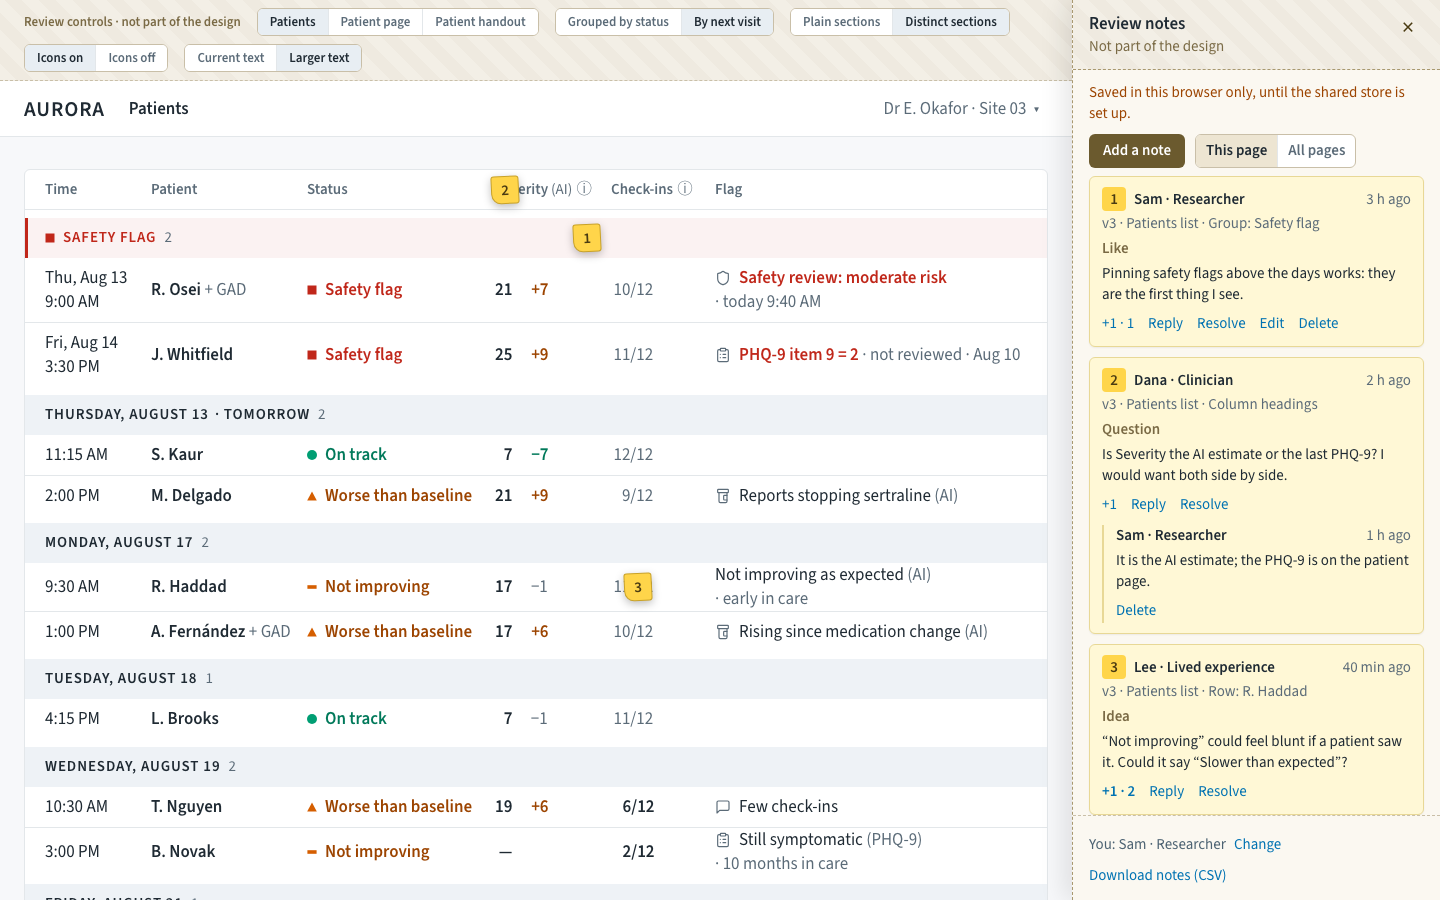
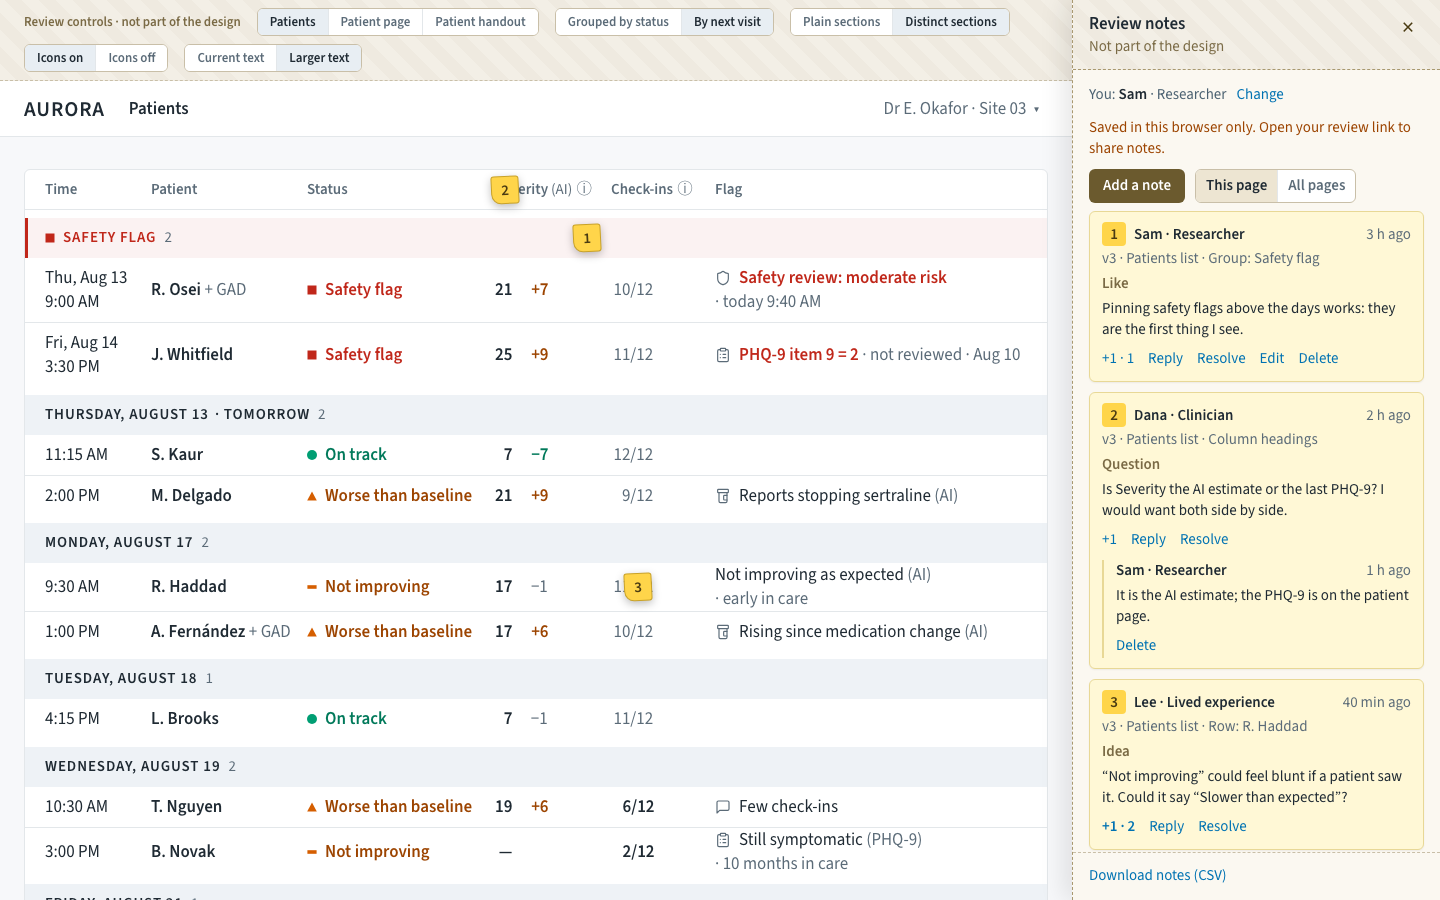
Put the reviewer's name at the top of the notes panel
Until a reviewer has a name, the panel opens with the name and role
fields and Save, so it is the first thing they see. After that it is
one line, "You: name · role", with Change. The footer keeps only the
CSV download.

Changed region(s): [[0.75, 0.0933, 1.0, 0.9644]]

diff --git a/notes.js b/notes.js
@@ -326,6 +326,7 @@
       items.push(card(n, m));
     }
     panelBody.replaceChildren(...[
+      identity(),
       h('p', { class: 'an-status' + (status.ok ? '' : ' warn') }, status.text),
       FACILITATOR ? h('p', { class: 'an-status' }, 'Facilitator view: you see every note.') : null,
       m.visible.some((n) => n.uid === m.uid) ? null : h('p', { class: 'an-intro' }, 'Click “Add a note”, then the part of the page it’s about.'
@@ -340,11 +341,7 @@
         : h('p', { class: 'an-empty' }, onPage ? 'No notes on this page yet. What do you notice, like or suggest?' : 'No notes yet.'),
       resolvedN ? h('label', { class: 'an-check' }, h('input', { type: 'checkbox', checked: ui.showResolved, onchange: (e) => { ui.showResolved = e.target.checked; render(true); } }), ` Show resolved (${resolvedN})`) : null
     ].filter(Boolean)); // replaceChildren would print null as text
-    const who = me();
-    panelFoot.replaceChildren(ui.me ? meForm() : h('div', { class: 'an-row' },
-      h('span', { class: 'an-me' }, who.name ? `You: ${who.name}${who.role ? ' · ' + who.role : ''}` : 'You haven’t added your name yet'),
-      h('button', { type: 'button', class: 'an-tool', onclick: () => { ui.me = true; render(true); } }, who.name ? 'Change' : 'Add name')),
-    h('button', { type: 'button', class: 'an-tool', onclick: downloadCsv }, 'Download notes (CSV)'));
+    panelFoot.replaceChildren(h('button', { type: 'button', class: 'an-tool', onclick: downloadCsv }, 'Download notes (CSV)'));
   }
   function gateText(hidden, onPage) {
     if (onPage) return `${plural(hidden.length, 'note')} from others on this page will appear once you add yours.`;
@@ -422,16 +419,29 @@
     return h('div', { class: 'an-edit' }, ta,
       h('div', { class: 'an-row' }, h('button', { type: 'button', class: 'an-btn', onclick: saveEdit }, 'Save'), h('button', { type: 'button', class: 'an-btn quiet', onclick: close }, 'Cancel')));
   }
-  function meForm() {
-    const f = nameFields();
+  // Who you are, at the top of the panel: the form until there is a name, then one line with Change
+  function identity() {
     const who = me();
+    if (who.name && !ui.me) {
+      return h('div', { class: 'an-me' }, h('span', {}, 'You: ', h('strong', {}, who.name), who.role ? ` · ${who.role}` : ''),
+        h('button', { type: 'button', class: 'an-tool', onclick: () => { ui.me = true; render(true); focusIn('.an-me-form input'); } }, 'Change'));
+    }
+    const f = nameFields();
     f.name.value = who.name;
     f.role.value = who.role;
-    const done = () => { if (saveName(f) || !f.name.value.trim()) { ui.me = false; render(true); } };
-    f.name.addEventListener('keydown', (e) => { if (e.key === 'Enter') done(); });
-    focusIn('.an-foot input');
-    return h('div', { class: 'an-me-form' }, h('div', { class: 'an-c-title' }, 'Your name, shown with your notes'), f.el,
-      h('div', { class: 'an-row' }, h('button', { type: 'button', class: 'an-btn', onclick: done }, 'Save'), h('button', { type: 'button', class: 'an-btn quiet', onclick: () => { ui.me = false; render(true); } }, 'Cancel')));
+    const err = h('p', { class: 'an-err', role: 'alert' });
+    const save = () => {
+      if (!saveName(f)) { err.textContent = 'Type your name first.'; f.name.focus(); return; }
+      ui.me = false;
+      render(true);
+      announce('Name saved.');
+    };
+    f.name.addEventListener('keydown', (e) => { if (e.key === 'Enter') save(); });
+    return h('div', { class: 'an-me-form' },
+      h('div', { class: 'an-c-title' }, who.name ? 'Your name, shown with your notes' : 'Add your name, so others know whose notes they are'),
+      f.el, err,
+      h('div', { class: 'an-row' }, h('button', { type: 'button', class: 'an-btn', onclick: save }, 'Save'),
+        who.name ? h('button', { type: 'button', class: 'an-btn quiet', onclick: () => { ui.me = false; render(true); } }, 'Cancel') : null));
   }
 
   /* ---------- Panel, adding, the note form ---------- */
@@ -645,7 +655,10 @@
 .an-replies li{margin-top:6px}
 .an-reply,.an-edit{margin-top:8px}
 .an-row{display:flex;flex-wrap:wrap;align-items:center;gap:8px;margin-top:6px}
-.an-me{color:#4C6272}
+.an-me{display:flex;align-items:baseline;gap:10px;margin:0 0 10px;color:#4C6272}
+.an-me strong{color:#1F2A33;font-weight:600}
+.an-me-form{margin:0 0 12px;padding:10px 12px;background:#FFF1B8;border-radius:6px}
+.an-me-form .an-c-row{margin-bottom:0}
 .an-check{display:flex;align-items:center;gap:6px;color:#4C6272}
 .an-input{box-sizing:border-box;width:100%;font:400 15px/21px var(--font,system-ui,sans-serif);color:#1F2A33;padding:6px 8px;background:#fff;border:1px solid #C9BFA8;border-radius:6px}
 .an-input:focus{outline:2px solid #0072B2;outline-offset:0}
